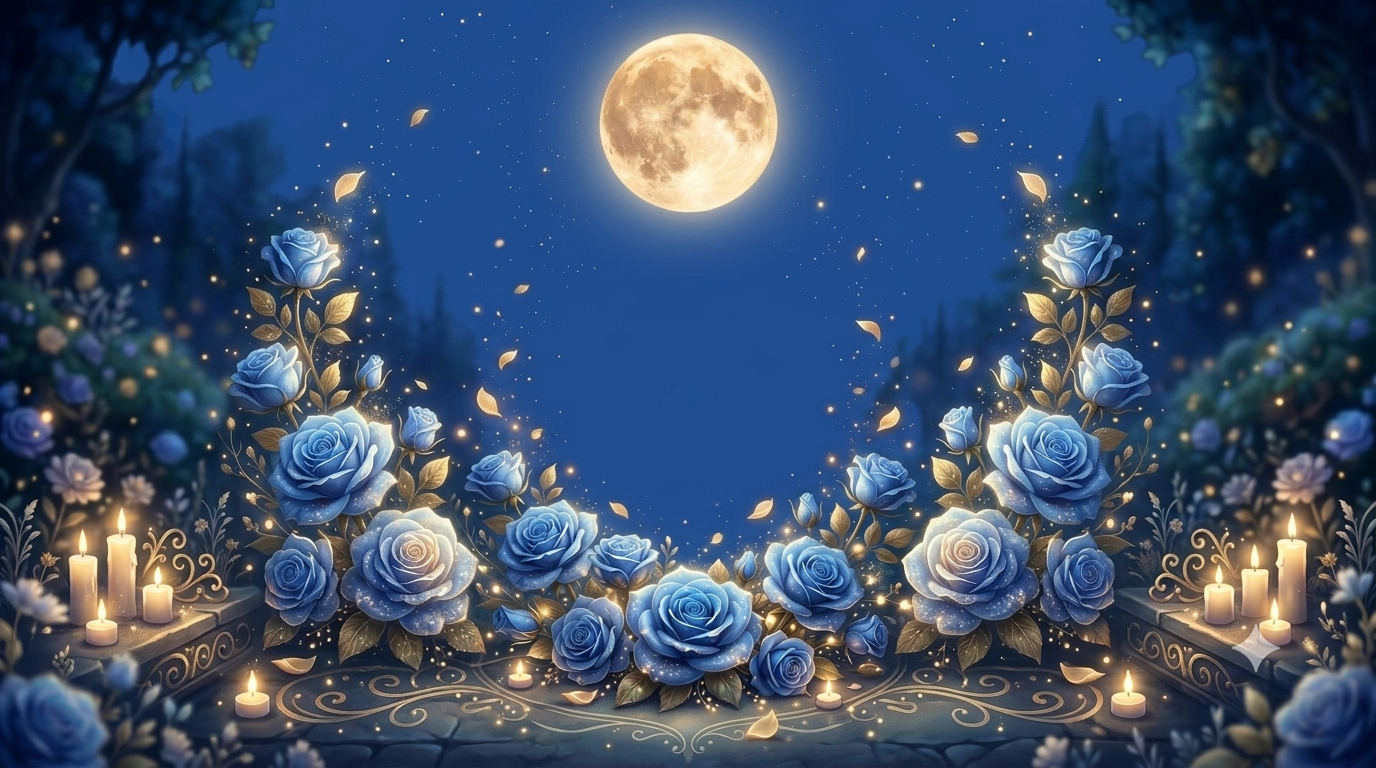
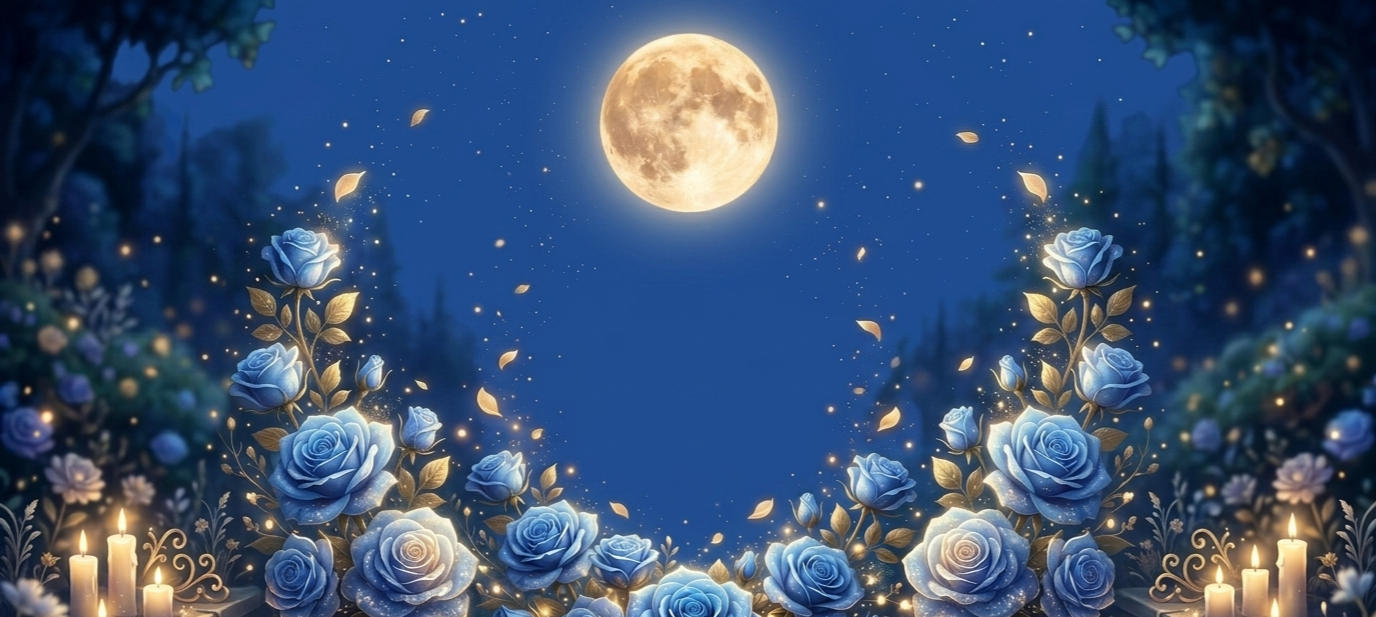
cambio de hero

diff --git a/style.css b/style.css
@@ -125,11 +125,8 @@ FONDO MÁGICO (CORREGIDO)
     overflow:hidden;
 
  background: 
-        linear-gradient(
-            rgba(11, 19, 43, 0.82),
-            rgba(28, 37, 65, 0.88)
-        ),
-        url("g.png");
+      
+        url("nn.png");
        
 
     
